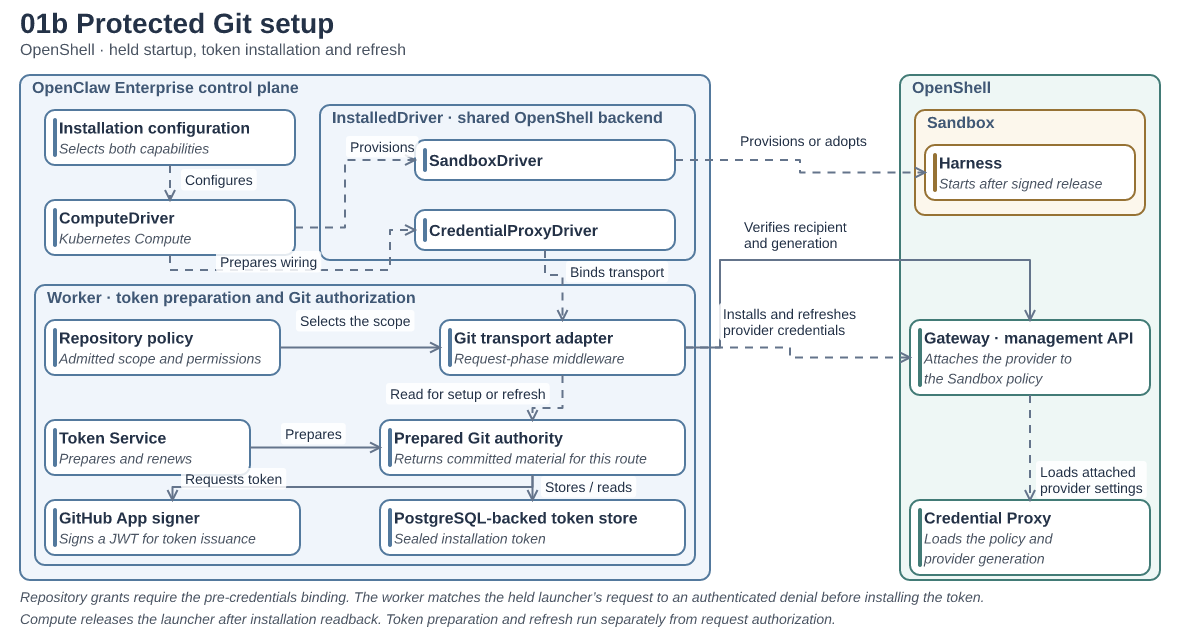
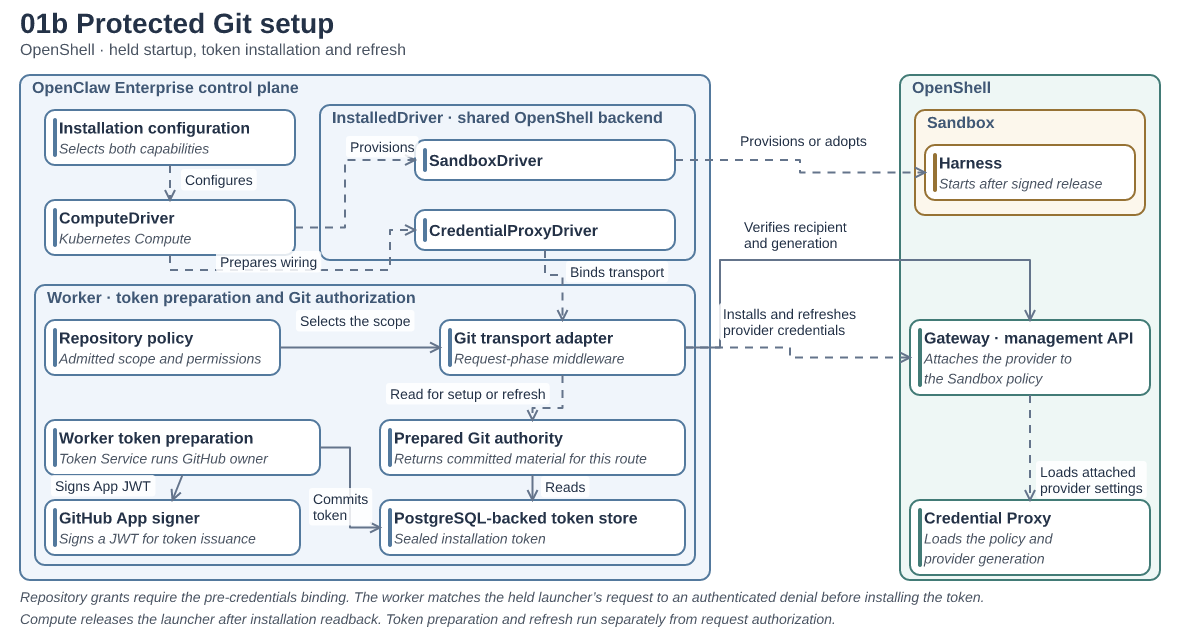
Address sketch rendering and evidence review findings

diff --git a/scripts/interface-sketches/check-assets.ts b/scripts/interface-sketches/check-assets.ts
@@ -1,0 +1,37 @@
+import { readFile, readdir } from "node:fs/promises";
+import { resolve } from "node:path";
+
+async function main(args: string[]): Promise<void> {
+  if (args.length !== 2) {
+    throw new Error("Usage: node check-assets.ts EXAMPLES_DIRECTORY PUBLISHED_DIRECTORY");
+  }
+  const [examples, published] = args.map((directory) => resolve(directory));
+  const filenames = async (directory: string) =>
+    new Set((await readdir(directory)).filter((name) => name.endsWith(".png")));
+  const expected = await filenames(examples);
+  const actual = await filenames(published);
+  const problems: string[] = [];
+  for (const name of [...actual].sort()) {
+    if (!expected.has(name)) {
+      problems.push(
+        `Orphan published preview (remove this obsolete file manually): ${resolve(published, name)}`,
+      );
+    }
+  }
+  for (const name of [...expected].sort()) {
+    const destination = resolve(published, name);
+    if (!actual.has(name)) {
+      problems.push(`Missing published preview (run pnpm build): ${destination}`);
+    } else if (!(await readFile(resolve(examples, name))).equals(await readFile(destination))) {
+      problems.push(`Stale published preview (run pnpm build): ${destination}`);
+    }
+  }
+  if (problems.length > 0) {
+    throw new Error(problems.join("\n"));
+  }
+}
+
+main(process.argv.slice(2)).catch((error: unknown) => {
+  console.error(error instanceof Error ? error.message : "Asset check failed");
+  process.exitCode = 1;
+});

diff --git a/scripts/interface-sketches/examples/current-git-setup.ts b/scripts/interface-sketches/examples/current-git-setup.ts
@@ -84,10 +84,10 @@ export default {
     },
     {
       id: "token-service",
-      title: "Token Service",
-      detail: "Prepares and renews",
+      title: "Worker token preparation",
+      detail: "Token Service runs GitHub owner",
       group: "worker",
-      pin: [10, 135, 205, 55],
+      pin: [10, 135, 275, 55],
     },
     {
       id: "owner",
@@ -200,25 +200,30 @@ export default {
       label: "Selects the scope",
       pin: { label: [300, 326] },
     },
-    { from: "token-service", to: "owner", label: "Prepares", pin: { label: [285, 439] } },
     {
-      from: "owner",
+      from: "token-service",
       to: "app-signer",
-      label: "Requests token",
+      label: "Signs App JWT",
+      pin: { from: "bottom", to: "top", label: [55, 491] },
+    },
+    {
+      from: "token-service",
+      to: "token-store",
+      label: "Commits\ntoken",
       pin: {
-        from: "bottom",
-        to: "top",
+        from: "right",
+        to: "left",
         via: [
-          [532.5, 487],
-          [172.5, 487],
+          [350, 447.5],
+          [350, 527.5],
         ],
-        label: [185, 484],
+        label: [313, 504],
       },
     },
     {
       from: "owner",
       to: "token-store",
-      label: "Stores / reads",
+      label: "Reads",
       pin: { from: "bottom", to: "top", label: [545, 492] },
     },
     {

diff --git a/scripts/interface-sketches/scene.ts b/scripts/interface-sketches/scene.ts
@@ -107,6 +107,7 @@ export function validateScene(input: unknown): Sketch {
     fail("invalid items");
   }
   let complexity = 0;
+  let textLines = 0;
   const ids = new Set<string>();
   for (const value of root.items) {
     const obj = record(value, [
@@ -222,6 +223,7 @@ export function validateScene(input: unknown): Sketch {
     if (obj.kind === "text") {
       label(obj.text, "text");
       complexity += (obj.text as string).length;
+      textLines += (obj.text as string).split("\n").length;
     }
     if (obj.kind === "node") {
       if (!Array.isArray(obj.lines) || obj.lines.length > 100) {
@@ -233,6 +235,7 @@ export function validateScene(input: unknown): Sketch {
           fail("invalid titleLineCount");
         }
       }
+      textLines += obj.lines.length;
       for (const line of obj.lines) {
         label(line, "node label");
         complexity += (line as string).length;
@@ -260,6 +263,9 @@ export function validateScene(input: unknown): Sketch {
           }
         }
       }
+    }
+    if (textLines > 10_000) {
+      fail("text exceeds 10,000 lines");
     }
     if (complexity > 200_000) {
       fail("content exceeds complexity limit");

diff --git a/scripts/interface-sketches/render.test.ts b/scripts/interface-sketches/render.test.ts
@@ -138,6 +138,26 @@ test("rejects malformed shapes, unsafe values, bad anchors and excessive work", 
   }
 });
 
+test("rejects aggregate text expansion across node labels and multiline captions", () => {
+  const node = {
+    kind: "node" as const,
+    x: 0,
+    y: 0,
+    w: 10,
+    h: 10,
+    lines: Array.from({ length: 100 }, () => ""),
+  };
+  const caption = { kind: "text" as const, x: 0, y: 0, text: "\n".repeat(100) };
+  // Empty lines still emit SVG elements. Neither bytes nor visible glyphs bound this work.
+  for (const items of [
+    [...Array.from({ length: 100 }, () => node), { ...node, lines: [""] }],
+    Array.from({ length: 100 }, () => caption),
+    [...Array.from({ length: 99 }, () => node), caption],
+  ]) {
+    assert.throws(() => renderSvg({ ...sample(), items }), /text exceeds 10,000 lines/);
+  }
+});
+
 test("CLI rejects invalid references before creating or replacing outputs", () => {
   const dir = mkdtempSync(join(tmpdir(), "sketch-validation-"));
   try {

diff --git a/scripts/interface-sketches/coupling.test.ts b/scripts/interface-sketches/coupling.test.ts
@@ -265,3 +265,25 @@ export function run(service: Service) {
     ],
   );
 });
+
+test("preserves local calls through receivers returned by standard library methods", (t) => {
+  const root = fixture(t, {
+    "contracts.ts": "export interface Authority { authorize(): void }",
+    "caller.ts": `import type { Authority } from "./contracts.js";
+export function run(authorities: Authority[]) {
+  authorities[0].authorize();
+  authorities.at(0)?.authorize();
+}
+`,
+  });
+  const result = analyzeCoupling(root, ["caller.ts"]);
+  assert.deepEqual(result.unresolved, []);
+  // Array.at is external; the authority it returns still has a local contract.
+  assert.deepEqual(
+    result.edges.map(({ from, kind, to, site }) => [from, kind, to, site.line]),
+    [
+      ["caller.ts#run", "calls", "contracts.ts#Authority.authorize", 3],
+      ["caller.ts#run", "calls", "contracts.ts#Authority.authorize", 4],
+    ],
+  );
+});

diff --git a/scripts/interface-sketches/coupling.ts b/scripts/interface-sketches/coupling.ts
@@ -218,11 +218,9 @@ export function analyzeCoupling(
       return true;
     }
     const declarations = canonical(symbol)?.declarations;
-    if (
-      declarations?.length &&
-      declarations.every((declaration) => !ownSource(declaration.getSourceFile()))
-    ) {
-      return true;
+    if (declarations?.length) {
+      // A library call can return a project-owned receiver. Classify its method first.
+      return declarations.every((declaration) => !ownSource(declaration.getSourceFile()));
     }
     if (ts.isPropertyAccessExpression(expression) || ts.isElementAccessExpression(expression)) {
       return external(expression.expression);

diff --git a/scripts/interface-sketches/README.md b/scripts/interface-sketches/README.md
@@ -33,7 +33,7 @@ pnpm build
 
 Open `examples/current-git.ts`, change the Agent's title, and run `pnpm build` again. Open `examples/current-git.png` to see the change. Commit the TypeScript, generated JSON and both PNG paths together. The build copies previews to `docs/assets/credential-proxy/` for the docs site and keeps the existing example URLs usable. `pnpm check` compares generated output without overwriting files; `pnpm test` type-checks the examples and runs tool tests.
 
-Canonical checks treat each top-level `examples/*.png` file as a preview. It must have a same-stem regular `.ts` source; declarations (`.d.ts`), symlinks and directories do not qualify. After renaming or deleting a source, restore it or manually remove the reported orphan PNG and its same-stem JSON, if present. Builds never delete old assets. Checks ignore standalone JSON and nested entries, and fail if no eligible sources remain. Custom `node build.ts INPUT.ts OUTPUT_PREFIX` builds are unchanged.
+Canonical checks treat each top-level `examples/*.png` file as a preview. It must have a same-stem regular `.ts` source; declarations (`.d.ts`), symlinks and directories do not qualify. After renaming or deleting a source, restore it or manually remove the reported orphan PNG and its same-stem JSON, if present. Published PNG filenames must match the example PNG filenames, and their bytes must match. Remove an obsolete published PNG manually from `docs/assets/credential-proxy/` when the check reports it. Builds never delete old assets. Checks ignore standalone JSON and nested entries, and fail if no eligible sources remain. Custom `node build.ts INPUT.ts OUTPUT_PREFIX` builds are unchanged.
 
 ## Add a diagram
 
@@ -101,7 +101,7 @@ cp examples/current-git.json my-layout.json
 node render.ts my-layout.json my-layout
 ```
 
-This writes `my-layout.svg` and `my-layout.png`. Keep hand-edited scenes outside the generated examples: the next build replaces those JSON files. No installed system fonts or browser are needed.
+This writes `my-layout.svg` and `my-layout.png`. The renderer rejects scenes with more than 10,000 text lines in total, counting each node label and each line of a multiline caption, including empty lines. Keep hand-edited scenes outside the generated examples: the next build replaces those JSON files. No installed system fonts or browser are needed.
 
 ## Draw a source-backed view
 

diff --git a/docs/design/credential-proxy-architecture.md b/docs/design/credential-proxy-architecture.md
@@ -24,7 +24,7 @@ For selected repositories, the grant names repositories on one GitHub App instal
 
 One OpenShell Backend supplies both `SandboxDriver` and `CredentialProxyDriver`. The worker binds its `ProtectedRepositoryGitAuthority` through `bindRepositoryGit`. See the [Driver contract](../reference/drivers/credential-proxy.md).
 
-GitHub issues the installation token after the worker signs an App JWT. Preparation and refresh run separately from Git requests. On the selected-repository path, OCE checks the held launcher's request against an authenticated middleware denial before issuing credentials. Credential installation and signed release precede Agent startup. See [OpenShell enrollment](../guides/repository-credentials/openshell-enrollment.md) and [token renewal](../guides/repository-credentials/openshell-git-renewal.md).
+GitHub issues the installation token after the worker signs an App JWT. The worker's preparation owner commits the token to the store. The transport adapter reads that committed material through the Repository Git authority; this read cannot issue a token. Preparation and refresh run separately from Git requests. On the selected-repository path, OCE checks the held launcher's request against an authenticated middleware denial before issuing credentials. Credential installation and signed release precede Agent startup. See [OpenShell enrollment](../guides/repository-credentials/openshell-enrollment.md) and [token renewal](../guides/repository-credentials/openshell-git-renewal.md).
 
 ## Who controls a generic API request and its reply?
 
